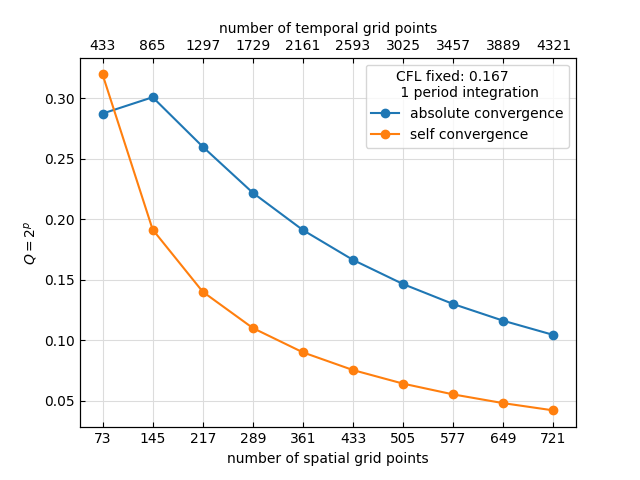
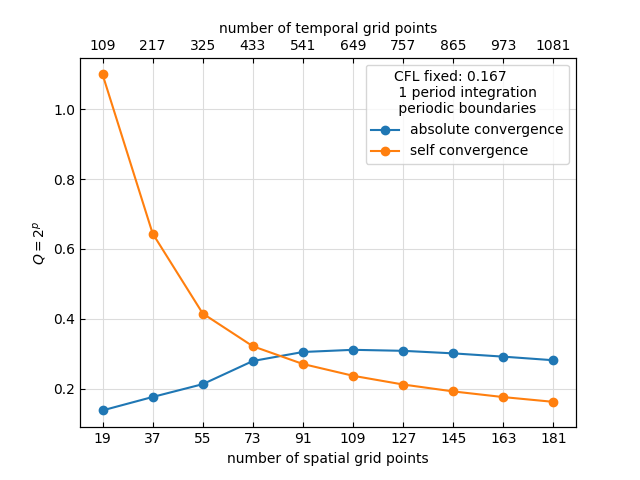
m

diff --git a/python/wave_convergence.py b/python/wave_convergence.py
@@ -30,10 +30,14 @@ def self_convergence(num_h, num_half_h, num_quater_h):
         N[i] = abs(num_half_h[i]-num_quater_h[i])**2
     Q = np.sqrt(sum(Z)) / np.sqrt(sum(N))
     return Q
-
+#------------------ function 'phi_select'--------
+# to compare solutions to the WE for different grid sizes
+# one needs to break them down to the minimal grid resolution
+# This function selects only columns with difference s
+#
 def phi_select(phi,s):
     (a,b) = np.shape(phi)       # a: timepoints, b: spacepoints
-    orig_length_phi = int((b-1)/s+1)
+    orig_length_phi = int(((b-1)/s+1))
     # print(orig_length_phi)
     new_phi = np.zeros((a,orig_length_phi))
     for i in range(orig_length_phi):
@@ -46,6 +50,7 @@ def convergence_test_T_var(endT,Nt,endX,Nx,T,tests_T,func,func_prime,sigma,mu,a,
     Nt = Nt + 1 # add 1 so phi is calculated at exact periods
     Nx = Nx + 1
     nt_conv = int(Nt*T)
+    # print('nt_conv: ' , nt_conv)
     Phis = np.zeros((3,Nt,Nx))
 # calculate 3 different phis vor 3 different
 # spatial grid resolutions
@@ -73,6 +78,8 @@ def convergence_test_T_var(endT,Nt,endX,Nx,T,tests_T,func,func_prime,sigma,mu,a,
         abs_conv = np.zeros(tests_T)
         self_conv = np.zeros(tests_T)
     for k in range(tests_T):
+        # print('timevalues: \n',timevalues)
+        print('evaluation time:', timevalues[(k+1)*nt_conv])
     # select Phi at exact periods t = k*T
         analytical = func(np.linspace(0,endX,Nx))
         num_h = Phis[0, (k+1)*nt_conv, :]
@@ -108,28 +115,29 @@ def convergence_test_cfl_var(endT,Nt,endX,Nx,T_per,tests_cfl,func,func_prime,sig
 if __name__ == "__main__":
 # set values for space time discretization
     c = 1
-    z = 1  # helper vairable for convergence over integrated periods
-    endT = 1/6
-    Nt = int(2*6**2)
+    z = 2/6  # helper vairable for convergence over integrated periods
+    endT = z
+    Nt = int(3*z*6**2)
     endX = 1
-    Nx = int(2*6**2)
-    T_per = 1    # T: zeitl. Periodenlaenge in Verhältnis zur Gesamtlänge
+    Nx = int(3*6**1)
+    T_per = 1/(6*z)    # T: zeitl. Periodenlaenge in Verhältnis zur Gesamtlänge
     n_tests_T = z*6 - 1 # n_tests_T: Anzahl der perioden für die Konvergenz getestet wird
     n_tests_h = 10 # n_tests_h: Anzahl der x-Diskretisierungen bei konstanter CFL für die Konvergenz getestet wird
-    n_tests_cfl = 10
+    n_tests_cfl = 2
+    bc = 'periodic'
 
     mu = 0.5
     sigma = mu/Nx
     a = 2
 # run convergence test for up to 6 periods
     # abs_conv, self_conv = convergence_test_T_var(endT,Nt,endX,Nx,T_per,n_tests_T,
-    #                     f_4,f_4_prime,sigma,mu,a,'peiodic')
+    #                     f_4,f_4_prime,sigma,mu,a,bc)
     # plot_norms_T(abs_conv,self_conv,n_tests_T,Nx,Nt)
 # run convergence test for increasing grid resolution (cfl increasing!)
     # abs_conv, self_conv = convergence_test_h_var(endT,Nt,endX,Nx,T_per,n_tests_h,
-    #                     f_4,f_4_prime,sigma,mu,a,'periodic')
+    #                     f_4,f_4_prime,sigma,mu,a,bc)
     # plot_norms_h(abs_conv,self_conv,n_tests_h,Nx,Nt)
 # run convergence test for increasing grid resolution (cfl fixed!!!)
     abs_conv, self_conv = convergence_test_cfl_var(endT,Nt,endX,Nx,T_per,n_tests_cfl,
-                        f_4,f_4_prime,sigma,mu,a,'periodic')
-    plot_norms_cfl(abs_conv,self_conv,n_tests_cfl,Nx,Nt)
+                        f_4,f_4_prime,sigma,mu,a,bc)
+    plot_norms_cfl(abs_conv,self_conv,n_tests_cfl,Nx,Nt,endX,endT,bc)

diff --git a/python/solver.py b/python/solver.py
@@ -223,9 +223,9 @@ def total_energy(phi,pi):
 
 
 # -------------------- little helper function ---------------
-def IVmaker(func,xvalues,sigma,mu,width,k):
-  funcDict = {"sine":(f_4(xvalues),- f_4_prime(xvalues))
-  ,"sine4":(f_5(xvalues),- f_5_prime(xvalues))
+def IVmaker(func,xvalues,sigma,mu,width,k,ampl):
+  funcDict = {"sine4":(f_4(xvalues),- f_4_prime(xvalues))
+  ,"sine5":(f_5(xvalues),- f_5_prime(xvalues))
   ,"gauss":(gaussian(xvalues,sigma,mu,ampl),-gaussian_drv(xvalues,sigma,mu,ampl))
   ,"square":(squares(xvalues, k),-squares_drv(xvalues,k))
   # ,"triangle":(f_triangle(xvalues,width/2,mu),-f_triangle_drv(xvalues,width/2,mu))
@@ -246,15 +246,15 @@ def zero_potential(xvalues):
     return np.zeros_like(xvalues)
 # -------------------- now, do it ---------------
 if __name__ == "__main__":
-    endT = 400
-    Nt = 800
-    startX = -200
-    endX = 200
-    Nx = 800
+    endT = 2
+    Nt = 200
+    startX = 0
+    endX = 1
+    Nx = 50
 
-    sigma = 5 # for gaussian pulse
-    mu = -50
-    ampl = 150
+    sigma = 1/6 # for gaussian pulse
+    mu = 1/2
+    ampl = 1
     width= 0.2 # for triangle pulse
     k = 1  # for square pulse
 
@@ -263,19 +263,22 @@ if __name__ == "__main__":
     print("courant number = %.2f" % courant)
     ### potential
     # potential = np.zeros(len(xvalues))#
-    potential = PTpot(xvalues)
+    potential = zero_potential(xvalues)
 
     Phi0, Pi0 = IVmaker('gauss',xvalues,sigma,mu,width,k)
     # phi: zeilen: Zeit, Spalten: Ort
-    Phi, Pi = wave_evolution1D(Phi0,Pi0,timevalues,xvalues, "open_iii", potential)
+    bc = 'periodic'
+    Phi, Pi = wave_evolution1D(Phi0,Pi0,timevalues,xvalues,bc,potential)
+    # Phi, Pi = wave_evolution1D_4th_order(Phi0,Pi0,timevalues,xvalues,bc,potential)
+    # Phi, Pi = wave_evolution1D_6th_order(Phi0,Pi0,timevalues,xvalues,bc,potential)
     print("calculation finished.")
-    plot_potential(xvalues,potential)
-    # # Etotal = total_energy(Phi,Pi)
-    # # Nt_plot = 7 # how many snap shots are plotted
-    # # plot_energy_evolution(Etotal,timevalues)
+    # plot_potential(xvalues,potential)
+    # Nt_plot = 7 # how many snap shots are plotted
+    Etotal = total_energy(Phi,Pi)
+    plot_energy_evolution(Etotal,timevalues)
     plot_xt_evolution_heatmap(timevalues,xvalues,np.log(Phi+1))
-    plot_amplitude_evolution(timevalues,Phi[:,250])
-    plot_animation(xvalues, timevalues, np.log(Phi+1), Pi,'mp4')
+    # plot_amplitude_evolution(timevalues,Phi[:,250])
+    # plot_animation(xvalues, timevalues, np.log(Phi+1), Pi,'mp4')
 
     # save as csv file
     # np.savetxt("results.csv", Phi, delimiter = ',', fmt = '%.6e')

diff --git a/python/von_Neumann_stability.py b/python/von_Neumann_stability.py
@@ -1,6 +1,7 @@
 import numpy as np
 import matplotlib.pyplot as plt
 import scipy as sp
+from matplotlib.colors import LogNorm
 
 from finite_differences.example_functions import *
 from solver import *
@@ -20,7 +21,7 @@ def vonNeumann(phi,analytical):
     G_factor = np.zeros((rows-1,k*columns+1))
     for i in range(0,rows-1):
         G_factor[i,:] = fouriers[i+1,:]/fouriers[i,:]
-        print('G_factor: %d' %i,G_factor[i,:])
+        # print('G_factor: %d' %i,G_factor[i,:])
     return G_factor
 
 def fourier_coeff(y,period):
@@ -33,20 +34,18 @@ def fourier_coeff(y,period):
     return c
 
 #--------------------------
-def vonNeumann_plot_heatmap(G_factor,Nt,Nx):
+def vonNeumann_plot_heatmap(G_factor,endT,endX):
 
     fig, ax1 = plt.subplots()
     im = ax1.imshow(np.transpose(G_factor), cmap = 'viridis',
-            origin = 'lower', extent=[0, Nt, 0, Nx])
+            origin = 'lower', extent=[0, endT, 0, endX], norm=LogNorm(vmin=0.01, vmax=10))
     fig.colorbar(im, ax=ax1)
     # maybe find better colormap? https://matplotlib.org/tutorials/colors/colormaps.html
-    plt.xlabel('time')
-    plt.ylabel('frequency')
+    ax1.set(xlabel='time', ylabel='frequency')
     ### todo: set proper positions and times as ticks
     plt.savefig("plots/vonNeumann_heatmap.png", bbox_inches = 'tight')
 
-def vonNeumann_plot_two():
-    return 0
+
 
 ########################
 
@@ -58,6 +57,7 @@ def test():
     # for gaussian pulse
     sigma = 0.005
     mu = 0.8
+    ampl = 1
     # for triangle pulse
     width = 0.2
     # for square pulse
@@ -71,7 +71,7 @@ def test():
     potential = np.zeros(np.shape(xvalues)) # PTpot(xvalues)
     # plot_potential(xvalues,potential)
 
-    Phi0, Pi0 = IVmaker('sine',xvalues,sigma,mu,width,k)
+    Phi0, Pi0 = IVmaker('sine4',xvalues,sigma,mu,width,k,ampl)
     Phi, Pi = wave_evolution1D(Phi0,Pi0,timevalues,xvalues, "periodic", potential)
     plot_xt_evolution_heatmap(timevalues,xvalues,Phi)
 
@@ -82,6 +82,6 @@ def test():
     G_factor = vonNeumann(Phi,ana)
     G_factor[0,:] = 0
 
-    vonNeumann_plot_heatmap(G_factor,Nt,Nx)
+    vonNeumann_plot_heatmap(G_factor,endT,endX)
 
 test()

diff --git a/python/convergence_plotting.py b/python/convergence_plotting.py
@@ -56,15 +56,17 @@ def plot_norms_h(abs_conv,self_conv,tests_h,Nx,Nt):
     ax2.set_xlabel('cfl number')
     plt.show()
 
-def plot_norms_cfl(abs_conv,self_conv,tests_cfl,Nx,Nt):
+def plot_norms_cfl(abs_conv,self_conv,tests_cfl,Nx,Nt,endX,endT,bc):
     Nxs = np.arange(Nx+1,(tests_cfl+1)*Nx+1,Nx)
-    cfl = Nx/(Nt)
+    dx = endX/Nx
+    dt = endT/Nt
+    cfl = dt/dx
         # print(np.shape(Nxs))
     fig, (ax1) = plt.subplots(1)
     ax2 = ax1.twiny()
     ax1.plot(Nxs,abs_conv,'o-', label= 'absolute convergence' )
     ax1.plot(Nxs,self_conv,'o-', label= 'self convergence' )
-    ax1.legend(title='CFL fixed: %.3f \n 1 period integration' %cfl)
+    ax1.legend(title = 'CFL fixed: %.3f \n 1 period integration \n %s boundaries' %(cfl,bc))
     ax1.set(xlabel = 'number of spatial grid points', ylabel = '$Q= 2^p$' )
     ax1.grid(color = 'gainsboro')
     def tick_function(Nxs):
@@ -74,8 +76,8 @@ def plot_norms_cfl(abs_conv,self_conv,tests_cfl,Nx,Nt):
     ax2.set_xticks(ax1.get_xticks())
     # ax2.set_xbound(ax1.get_xbound())
     ax2.set_xlim(ax1.get_xlim())
-    ax1.tick_params(axis = 'y',direction = 'in')
-    ax1.tick_params( axis = 'x', direction = 'in')
+    ax1.tick_params(axis = 'y', direction = 'in')
+    ax1.tick_params(axis = 'x', direction = 'in')
     ax2.tick_params(direction = 'in')
     ax2.set_xticklabels(tick_function(Nxs))
     ax2.set_xlabel('number of temporal grid points')

diff --git a/python/finite_differences/example_functions.py b/python/finite_differences/example_functions.py
@@ -56,6 +56,8 @@ tex_g_a = r'$g_a=\exp(-ax^2)$'
 
 ### gaussian wave packet
 def gaussian(x,sigma=1,mu=1,a=1):
+    # mu: mean value
+    # sigma: std deviation
   return a * np.exp(-(x-mu)**2/(2*sigma**2)) # *1/np.sqrt(2*np.pi*sigma**2)
 def gaussian_drv(x,sigma = 1,mu=1,a=1):
   return  - a *(x-mu)/sigma**2 * np.exp(-(x-mu)**2/(2*sigma**2)) # *1/np.sqrt(2*np.pi*sigma**2)
